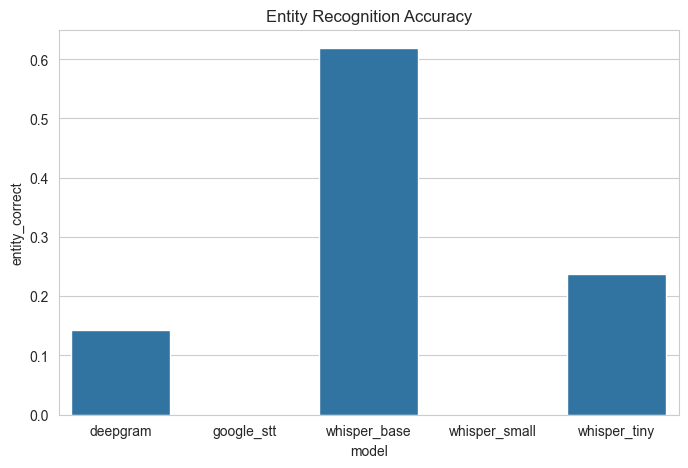
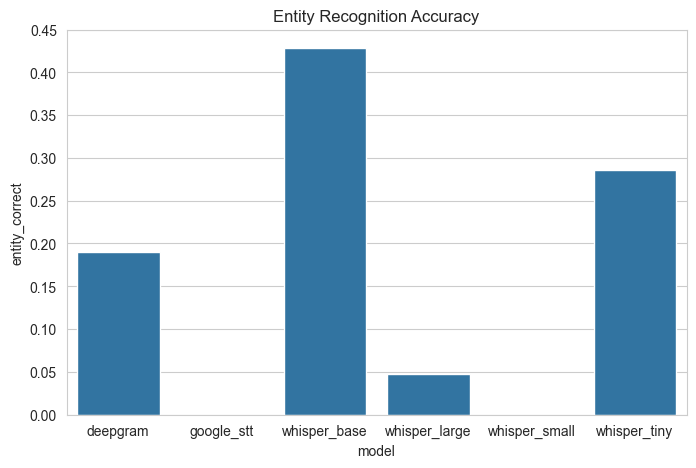
ASR benchmark pipeline implementation

diff --git a/test.py b/test.py
@@ -1,0 +1,24 @@
+from models.whisper_local import transcribe_whisper
+from models.whisper_tiny import transcribe_whisper_tiny
+from models.whisper_small import transcribe_whisper_small   
+from models.whisper_large import transcribe_whisper_large
+from models.deepgram_api import transcribe_deepgram
+from models.google_stt import transcribe_google
+
+audio = "data/processed_audio/001_hsr_layout_noise.wav"
+
+result_whisper_base = transcribe_whisper(audio)
+result_whisper_tiny = transcribe_whisper_tiny(audio)
+result_whisper_small = transcribe_whisper_small(audio)
+result_whisper_large = transcribe_whisper_large(audio)
+
+result_deepgram = transcribe_deepgram(audio)    
+result_google = transcribe_google(audio)
+
+
+print(result_whisper_base)
+print(result_whisper_tiny)
+print(result_whisper_small)
+print(result_whisper_large)
+print(result_deepgram)
+print(result_google)

diff --git a/main.py b/main.py
@@ -3,7 +3,8 @@ import pandas as pd
 
 from models.whisper_local import transcribe_whisper
 from models.whisper_tiny import transcribe_whisper_tiny
-from models.whisper_small import transcribe_whisper_small
+from models.whisper_small import transcribe_whisper_small   
+from models.whisper_large import transcribe_whisper_large
 from models.deepgram_api import transcribe_deepgram
 from models.google_stt import transcribe_google
 
@@ -41,6 +42,7 @@ MODELS = {
     "whisper_base": transcribe_whisper,
     "whisper_tiny": transcribe_whisper_tiny,
     "whisper_small": transcribe_whisper_small,
+    "whisper_large": transcribe_whisper_large,
     "deepgram": transcribe_deepgram,
     "google_stt": transcribe_google
 }

diff --git a/models/whisper_large.py b/models/whisper_large.py
@@ -6,14 +6,14 @@ FFMPEG_PATH = r"C:\Users\shreyabhat\ffmpeg\bin"
 
 os.environ["PATH"] += os.pathsep + FFMPEG_PATH
 
-print("Loading Whisper Small model...")
+print("Loading Whisper Large model...")
 
-model = whisper.load_model("small")
+model = whisper.load_model("large-v3")
 
-print("Whisper Small loaded.")
+print("Whisper Large loaded.")
 
 
-def transcribe_whisper_small(audio_path):
+def transcribe_whisper_large(audio_path):
 
     start = time.time()
 

diff --git a/models/whisper_tiny.py b/models/whisper_tiny.py
@@ -2,17 +2,15 @@ import os
 import time
 import whisper
 
-# Explicit FFmpeg path
 FFMPEG_PATH = r"C:\Users\shreyabhat\ffmpeg\bin"
 
-# Add ffmpeg to environment path for this process
 os.environ["PATH"] += os.pathsep + FFMPEG_PATH
 
-print("Loading Whisper model...")
+print("Loading Whisper Tiny model...")
 
 model = whisper.load_model("tiny")
 
-print("Whisper model loaded.")
+print("Whisper Tiny loaded.")
 
 
 def transcribe_whisper_tiny(audio_path):

diff --git a/models/google_stt.py b/models/google_stt.py
@@ -9,7 +9,7 @@ from google.cloud import speech
 # -----------------------------------
 
 os.environ["GOOGLE_APPLICATION_CREDENTIALS"] = (
-    r"D:\project\automatic-speech-recognition\gen-lang-client-0550490215-feca78951f8f.json"
+    r"D:\project\automatic-speech-recognition\google_credentials.json"
 )
 
 # -----------------------------------
